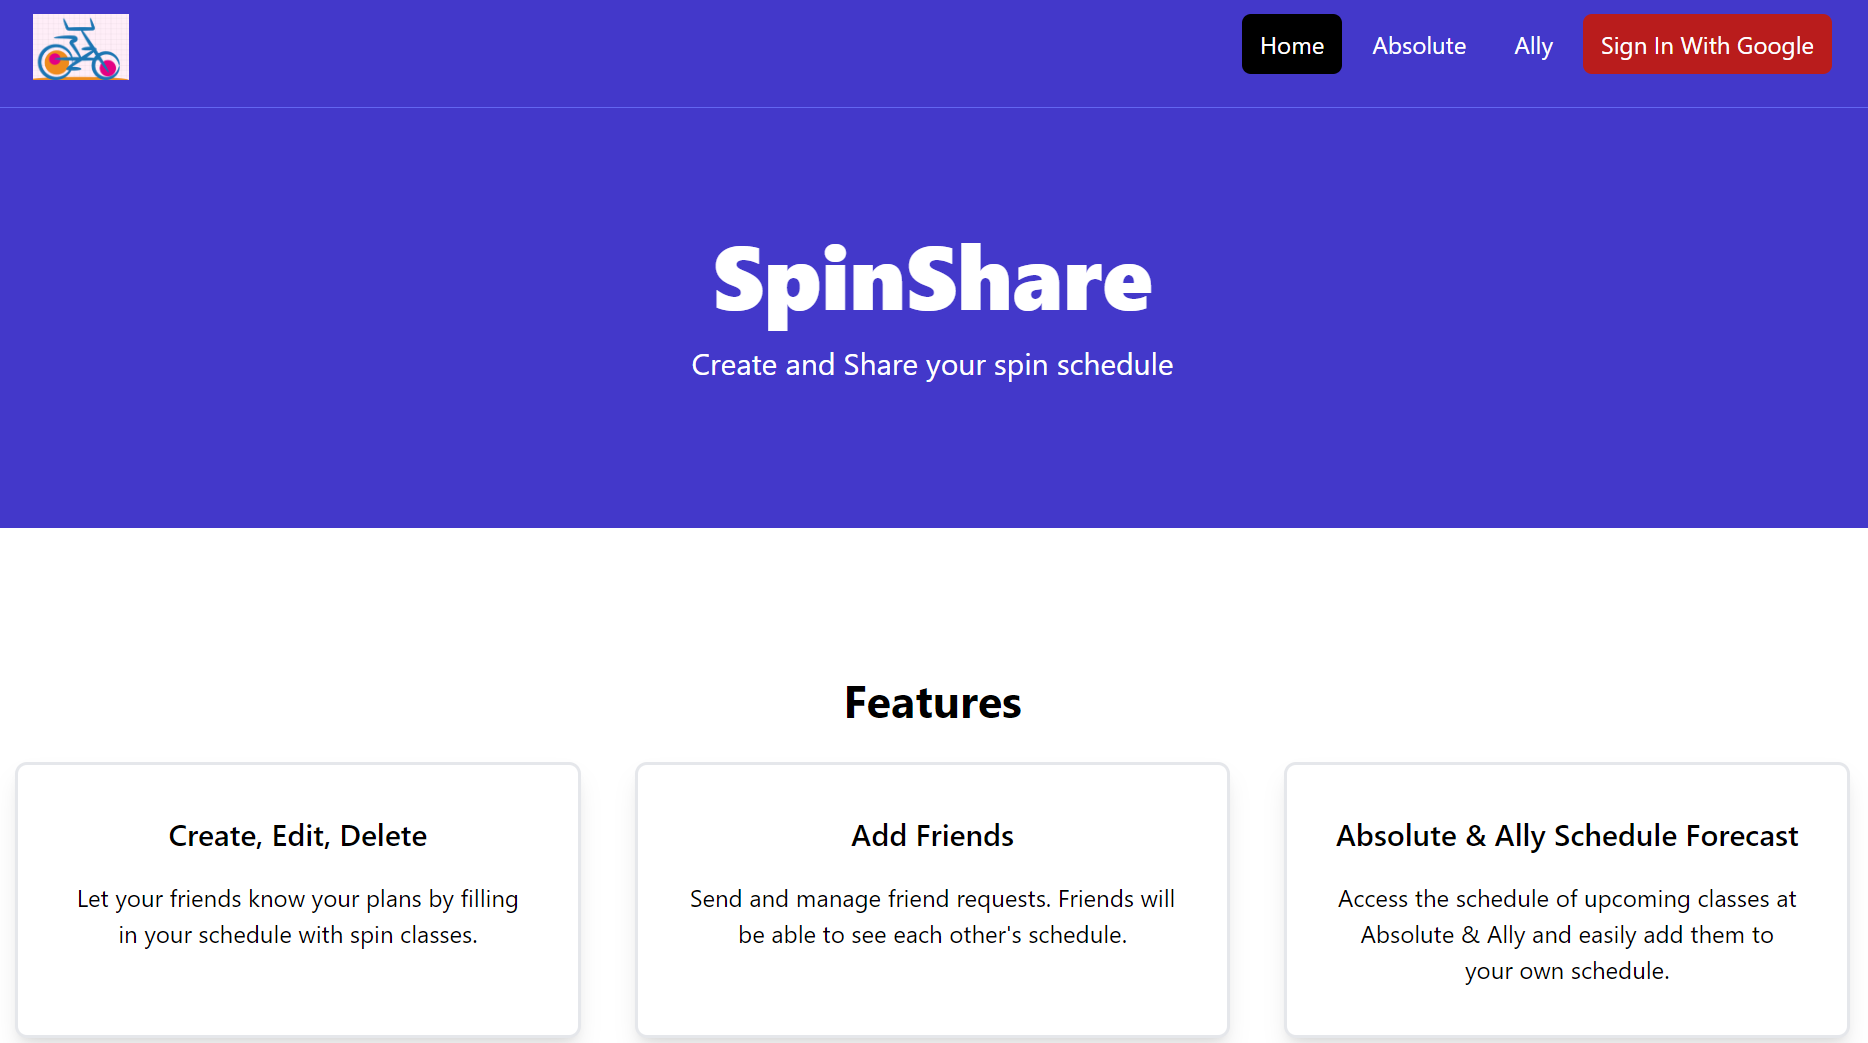
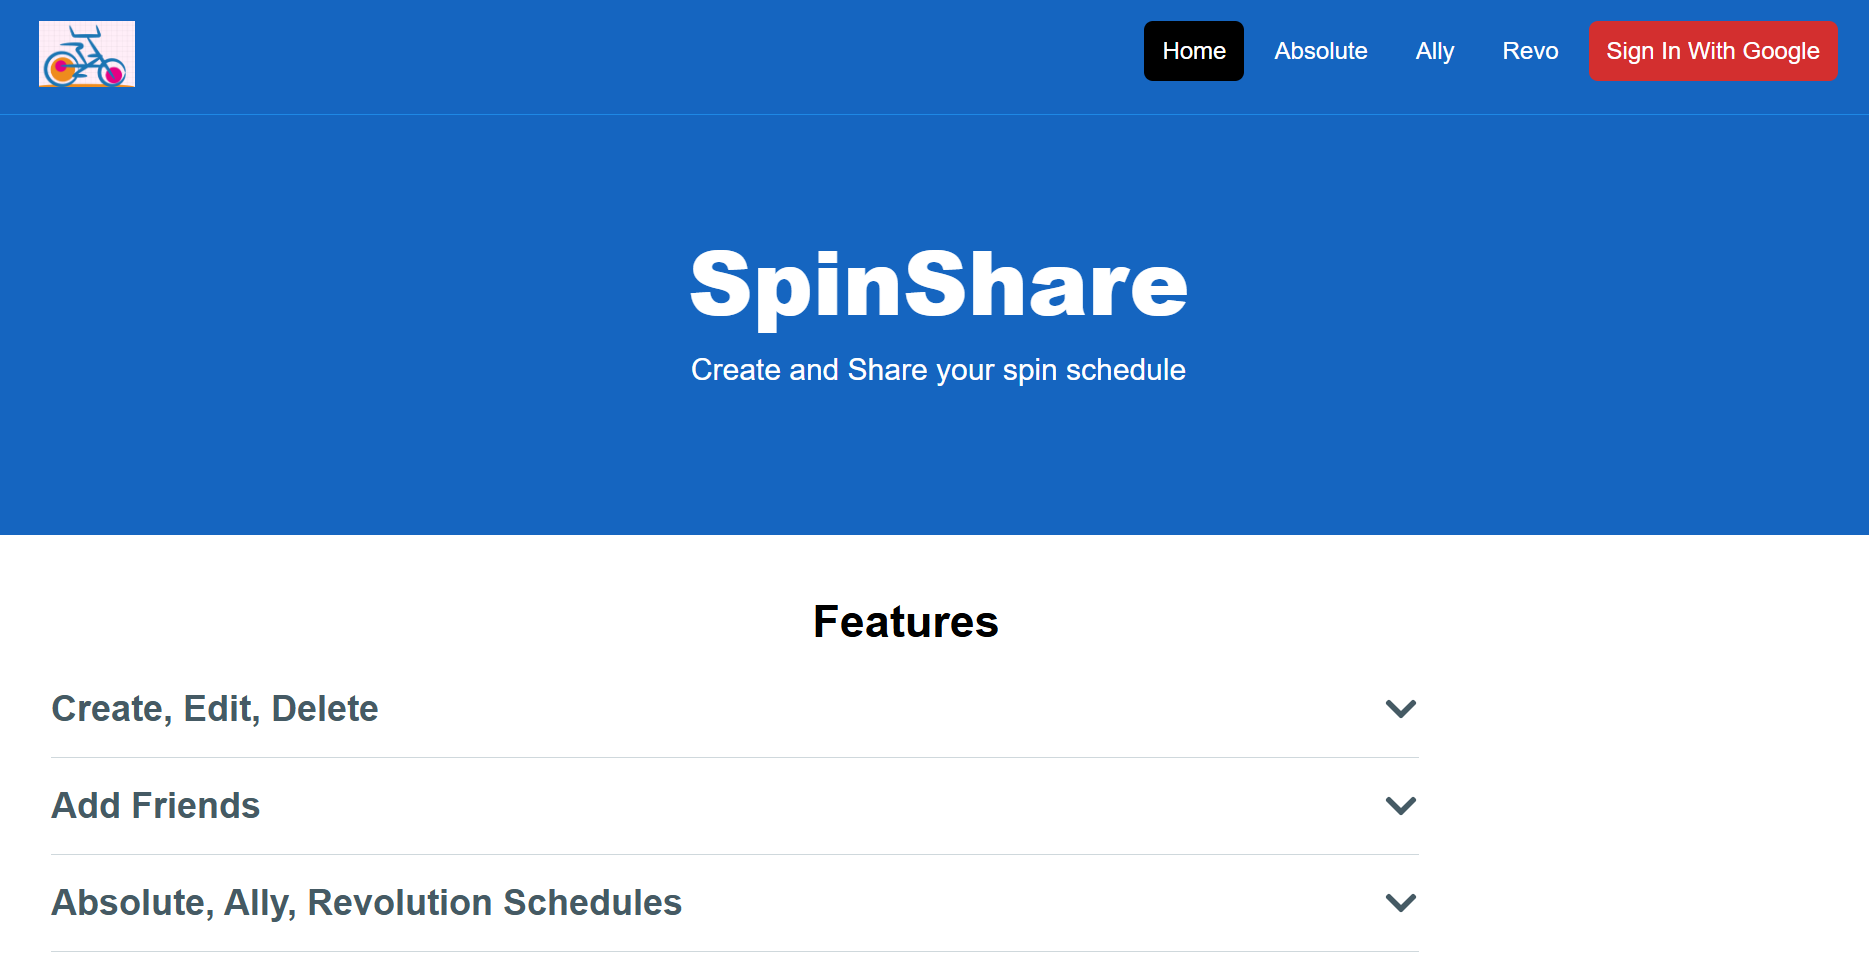
Update README images

diff --git a/README.md b/README.md
@@ -99,9 +99,7 @@ Inspired by the hassle of individually asking friends for their schedules, SpinS
 
 ### Home Page
 
-Users are greeted by this page when they visit the SpinShare website. They are able to view the Absolute and
-Ally schedules for the current week and learn about the main features of SpinShare. Clicking on the 
-"Sign In With Google" button will allow users to login to their account.
+Users are greeted by this page when they visit the SpinShare website. They are able to view the Absolute, Ally, and Revolution schedules for the current week and learn about the main features of SpinShare. Clicking on the "Sign In With Google" button will allow users to login to their account.
 
 <img src="src/assets/images/spinShare_login.png" alt="SpinShare login" width="600" height=auto>
 
@@ -127,7 +125,9 @@ This feature offers a clean and intuitive interface where users can easily input
     - [x] View friends' classes in your schedule
     - [ ] Invite friends to join classes
 - [x] Absolute and Ally schedules (updated weekly)
-- [ ] Revolution schedule (updated weekly)
+- [x] Revolution schedule (updated weekly)
+- [x] Add classes to schedule from image (Absolute spin)
+- [ ] Add classes to schedule from image (Other studios)
 
 
 See the [open issues](https://github.com/SQ77/spinShare/issues) for a full list of proposed features (and known issues).
